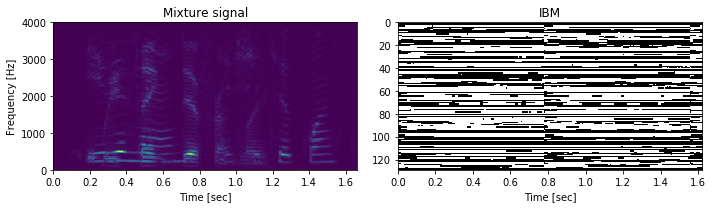
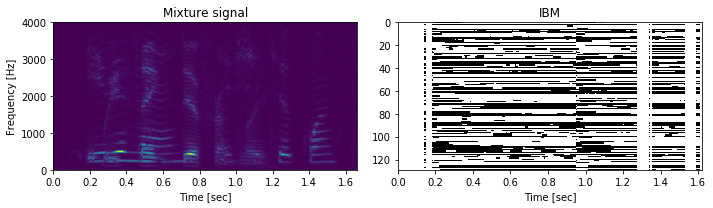
Add files via upload

Changed region(s): [[0.5554, 0.0865, 0.9874, 0.8365]]

diff --git a/RNN/train_RNN.py b/RNN/train_RNN.py
@@ -85,23 +85,24 @@ with tf.variable_scope('BLSTM1') as scope:
     lstm_fw_cell1 = tf.contrib.rnn.BasicLSTMCell(n_neurons_in_h1)
       
     #Create first layer
+    #Produces a 300x100 output layer
     outputs1, states1 = tf.nn.dynamic_rnn(cell=lstm_fw_cell1, inputs=X, dtype=tf.float32)
-    state_concate1 = tf.concat(outputs1, 2)
 
 #%% Layer 2
 with tf.variable_scope('BLSTM2') as scope: 
     lstm_fw_cell2 = tf.contrib.rnn.BasicLSTMCell(n_neurons_in_h2)
       
     #Create first layer
-    outputs2, states2 = tf.nn.dynamic_rnn(cell=lstm_fw_cell2, inputs=state_concate1, dtype=tf.float32)
-    state_concate2 = tf.concat(outputs2, 2)
-    out_concate = tf.reshape(state_concate2, [-1, n_neurons_in_h2])
+    #Produces a 300x100 output layer
+    outputs2, states2 = tf.nn.dynamic_rnn(cell=lstm_fw_cell2, inputs=outputs1, dtype=tf.float32)
+    #Produces a 6400x300 output layer
+    out_concate = tf.reshape(outputs2, [-1, n_neurons_in_h2])
 
 #%% ouput layer
 
 W0 = tf.Variable(tf.random_normal([n_neurons_in_h2, n_classes], mean=0, stddev=1/np.sqrt(n_features)), name="weightsOut")
 b0 = tf.Variable(tf.random_normal([n_classes], mean=0, stddev=1/np.sqrt(n_features)), name="biasesOut")
-#Activation function (tanh)
+#Activation function (sigmoid)
 a = tf.nn.sigmoid((tf.matmul(out_concate, W0)+b0), name="activationOutputLayer")
 
 #%% Cost function
@@ -252,49 +253,19 @@ data_generator = DataGenerator()
 #Get spectrogram of two wav files combined
 testdata = data_generator.CreateTrainingDataSpectrogram(wavfile1, wavfile2, sampling_rate, frame_size, maxFFTSize, vad_threshold)
 
-#%% As a test - convert spectrogram back into time domain
-import matplotlib.pyplot as plt
-
-#Get spectrogram from testing routine
-testspectrogram1 = np.power(10, testdata['Sample'])
-
-#Get recovered mixture from istft routine
-wav_recovered = data_generator.istft(testspectrogram1, sampling_rate, frame_size)
-   
-#Amplify wav file
-wav_recovered = wav_recovered * 5
-
-#See wav file
-plt.figure(1)
-
-#sub plot 1 - Original signal
-ax1 = plt.subplot(211)
-plt.plot(testdata['MixtureSignal'])
-plt.xlabel('time')
-plt.title('original signal')
-
-#sub plot 2 - Recovered signal
-ax2 = plt.subplot(212, sharex=ax1)
-plt.plot(wav_recovered)
-plt.xlabel('time')
-plt.title('recovered signal')
-
-plt.show() 
-
-#%% remove unused variables
-
-del testspectrogram1, wav_recovered
-
 #%% Create ibm from model
 
+# Get only active test features
+ts_features = testdata['Sample'][testdata['VAD']]
+
 #Get number of features variable
-n_features = np.shape(testdata['Sample'])[1]
+n_features = np.shape(ts_features)[1]
   
 #Previously saved model 
 model_checkpoint = "./model.chkpt"
 
 #Create array for storing IBM
-ibm = []
+ibm_list = []
 
 #create saver to save session
 saver = tf.train.Saver()
@@ -305,7 +276,7 @@ with tf.Session() as sess:
     saver.restore(sess, model_checkpoint)
         
     #get length of spectrogram for mixture signal
-    len_spec = testdata['Sample'].shape[0]
+    len_spec = ts_features.shape[0]
     k = 0
     
     #loop through spectrograms creating chunks of (frames_per_sample) time periods 
@@ -314,30 +285,30 @@ with tf.Session() as sess:
         #if have come to the end of the spectrogram, need to pad the rest of the spectrogram with 0s to get a 129x209 array
         if (k + frames_per_sample > len_spec):
             # Get remaining data
-            ts_features = testdata['Sample'][k:k + frames_per_sample, :]
+            x = ts_features[k:k + frames_per_sample, :]
             
             # get shape of current ts_features
-            current_len_spec = ts_features.shape[0]
+            current_len_spec = x.shape[0]
             
             # Pad ts_features so that it is the full size
-            ts_features = np.pad(ts_features, ((0, (frames_per_sample-current_len_spec)), (0, 0)), 'constant', constant_values=(0))
+            x = np.pad(x, ((0, (frames_per_sample-current_len_spec)), (0, 0)), 'constant', constant_values=(0))
             
             # reshape spectrogram for neural network
-            ts_features = np.reshape(ts_features, [1, frames_per_sample, n_features])
+            x = np.reshape(x, [1, frames_per_sample, n_features])
 
         else:
             # Get data
-            ts_features = np.reshape(testdata['Sample'][k:k + frames_per_sample, :], [1, frames_per_sample, n_features])
+            x = np.reshape(ts_features[k:k + frames_per_sample, :], [1, frames_per_sample, n_features])
                 
         # get inferred ibm using trained model
-        ibm_batch = sess.run([a], feed_dict={X: ts_features})
+        ibm_batch = sess.run([a], feed_dict={X: x})
         
         # append ibm from batch to previous ibms
         # if have come to the end of the spectrogram, only append relevant points and not padded points
         if (k + frames_per_sample > len_spec):
-            ibm.append(ibm_batch[0][0:current_len_spec,:])
+            ibm_list.append(ibm_batch[0][0:current_len_spec,:])
         else:
-            ibm.append(ibm_batch[0])
+            ibm_list.append(ibm_batch[0])
         
         #increment k to look at next n time points
         k = k + frames_per_sample
@@ -345,12 +316,20 @@ with tf.Session() as sess:
 
  
 #Convert list to array       
-ibm = np.concatenate([item for item in ibm], axis=0)
+ibm_array = np.concatenate([item for item in ibm_list], axis=0)
 
 #Round each point to 0 or 1
-ibm = (np.round(ibm, 0)).astype(int)
+ibm_array = (np.round(ibm_array, 0)).astype(int)
+
+#Add extra points to IBM where VAD is 0
+#Get index of all time points that have 0 activity
+vad = np.where(testdata['VAD'] == False)[0]
+#take index away from index points
+vad1 = np.subtract(vad, np.asarray(range(vad.shape[0])))
+#Use insert to insert extra columns into ibm where VAD is 0
+ibm = np.insert(ibm_array, vad1, 0, axis=0)
         
-del k, n_features, len_spec, current_len_spec
+del k, n_features, len_spec, current_len_spec, ibm_array
 
 #%% Show original mixture spectrogram and mask
 
@@ -391,7 +370,7 @@ wav_recovered = np.float32(wav_recovered * 5)
 
 #%% plot signal 
 
-plt.figure(2)
+fig = plt.figure() 
 
 #sub plot 1 - Original signal
 ax1 = plt.subplot(211)
